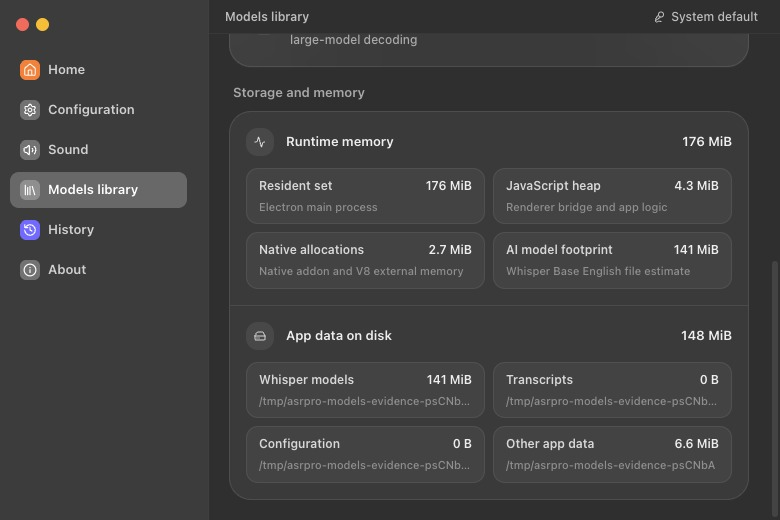
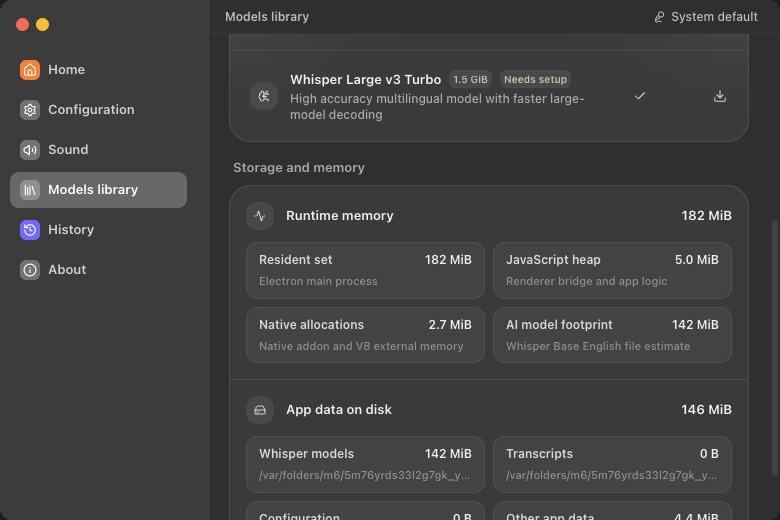
ASR Pro: tighten model setup badges

diff --git a/src/App.tsx b/src/App.tsx
@@ -309,7 +309,7 @@ const iconTileClass = `grid size-7 shrink-0 place-items-center ${sharedRadiusCla
 const focusRingClass = "focus-visible:outline focus-visible:outline-2 focus-visible:outline-offset-2 focus-visible:outline-[#9bcfff]";
 const panelControlButtonClass = `inline-flex min-h-8 items-center justify-center gap-1.5 ${sharedRadiusClass} border border-[#5c5c5c] bg-[#303030] text-[12px] font-semibold text-[#eeeeee] transition hover:bg-[#3a3a3a] active:scale-[0.97] disabled:cursor-not-allowed disabled:text-[#8a8a8a] ${focusRingClass}`;
 const historyActionButtonClass = `grid size-7 place-items-center ${sharedRadiusClass} text-[#bdbdbd] transition hover:bg-[#555] hover:text-white disabled:cursor-wait disabled:opacity-55`;
-const modelMetaBadgeClass = "rounded-[7px] bg-white/[0.075] px-1.5 py-0.5 text-[11px] font-semibold text-[#bcbcbc]";
+const modelMetaBadgeClass = "rounded-[6px] bg-white/[0.075] px-1 py-[1px] text-[10px] font-semibold leading-4 text-[#bcbcbc]";
 const dropdownSurfaceClass = `scrollbar-macos dropdown-options-scrollbar absolute z-50 max-h-64 overflow-x-hidden overflow-y-auto ${sharedRadiusClass} border border-[#5c5c5c] bg-[#303030] py-1 pl-1 pr-0.5 shadow-2xl shadow-black/40`;
 const dropdownOptionButtonClass = `flex w-full min-w-0 items-start gap-2 ${insetControlRadiusClass} px-2.5 py-2 text-left text-[12px] font-semibold leading-4 transition`;
 const segmentedControlClass = `inline-flex ${sharedRadiusClass} border border-white/[0.08] bg-[#2b2b2b] p-0.5`;
@@ -2173,11 +2173,12 @@ function ModelsView({
                     <span className="flex min-w-0 flex-wrap items-center gap-x-2 gap-y-1">
                       <span className="text-[13px] font-semibold leading-5 text-[#f2f2f2]">{model.displayName}</span>
                       <span className={modelMetaBadgeClass}>{diskLabel}</span>
+                      {!installed ? <span className={`${modelMetaBadgeClass} text-[#c9c0a4]`}>Needs setup</span> : null}
                     </span>
                     <span className="selectable-text mt-0.5 block text-[12px] font-medium leading-4 text-[#aaa]">{model.detail}</span>
                   </span>
                 </div>
-                <div data-model-controls className="grid shrink-0 grid-cols-[32px_86px_32px] items-center gap-2 pl-11 sm:pl-0">
+                <div data-model-controls className="grid shrink-0 grid-cols-[32px_32px_32px] items-center gap-2 pl-11 sm:pl-0">
                   <ModelSelectButton
                     modelName={model.displayName}
                     selected={selected}
@@ -2277,11 +2278,7 @@ function ModelStatusLabel({ installed, modelName }: { installed: boolean; modelN
     );
   }
 
-  return (
-    <span className={`${modelMetaBadgeClass} justify-self-center text-[#c9c0a4]`}>
-      Needs setup
-    </span>
-  );
+  return <span aria-hidden="true" className="size-8 shrink-0 justify-self-center" />;
 }
 
 interface ModelActionButtonProps {

diff --git a/src/App.test.tsx b/src/App.test.tsx
@@ -1163,10 +1163,17 @@ describe("ASR Pro Electron shell", () => {
     expect(screen.getByText("AI model footprint")).toBeTruthy();
     expect(screen.getAllByText("120 MiB").length).toBeGreaterThan(0);
     expect(screen.getByText("Whisper models")).toBeTruthy();
+    const turboMetaRow = screen.getByText("Whisper Large v3 Turbo").parentElement;
+    expect(turboMetaRow?.textContent).toContain("1.5 GiB");
+    expect(turboMetaRow?.textContent).toContain("Needs setup");
     const setupBadge = screen.getByText("Needs setup");
-    expect(setupBadge.className).toContain("rounded-[7px]");
+    expect(setupBadge.className).toContain("rounded-[6px]");
     expect(setupBadge.className).toContain("bg-white/[0.075]");
-    expect(setupBadge.className).toContain("px-1.5");
+    expect(setupBadge.className).toContain("px-1");
+    expect(setupBadge.className).toContain("py-[1px]");
+    expect(setupBadge.className).toContain("text-[10px]");
+    const sizeBadge = turboMetaRow?.querySelector("span:nth-child(2)");
+    expect(sizeBadge?.className).toContain("text-[10px]");
     expect(screen.queryByText("Selected")).toBeNull();
     expect(screen.queryByText(/^Ready$/)).toBeNull();
 
@@ -1177,7 +1184,8 @@ describe("ASR Pro Electron shell", () => {
     const controlColumns = Array.from(document.querySelectorAll("[data-model-controls]"));
     expect(controlColumns).toHaveLength(initialModels.length);
     for (const controls of controlColumns) {
-      expect(controls.className).toContain("grid-cols-[32px_86px_32px]");
+      expect(controls.className).toContain("grid-cols-[32px_32px_32px]");
+      expect(controls.textContent).not.toContain("Needs setup");
     }
 
     const downloadButton = screen.getByRole("button", { name: "Download Whisper Large v3 Turbo" });
